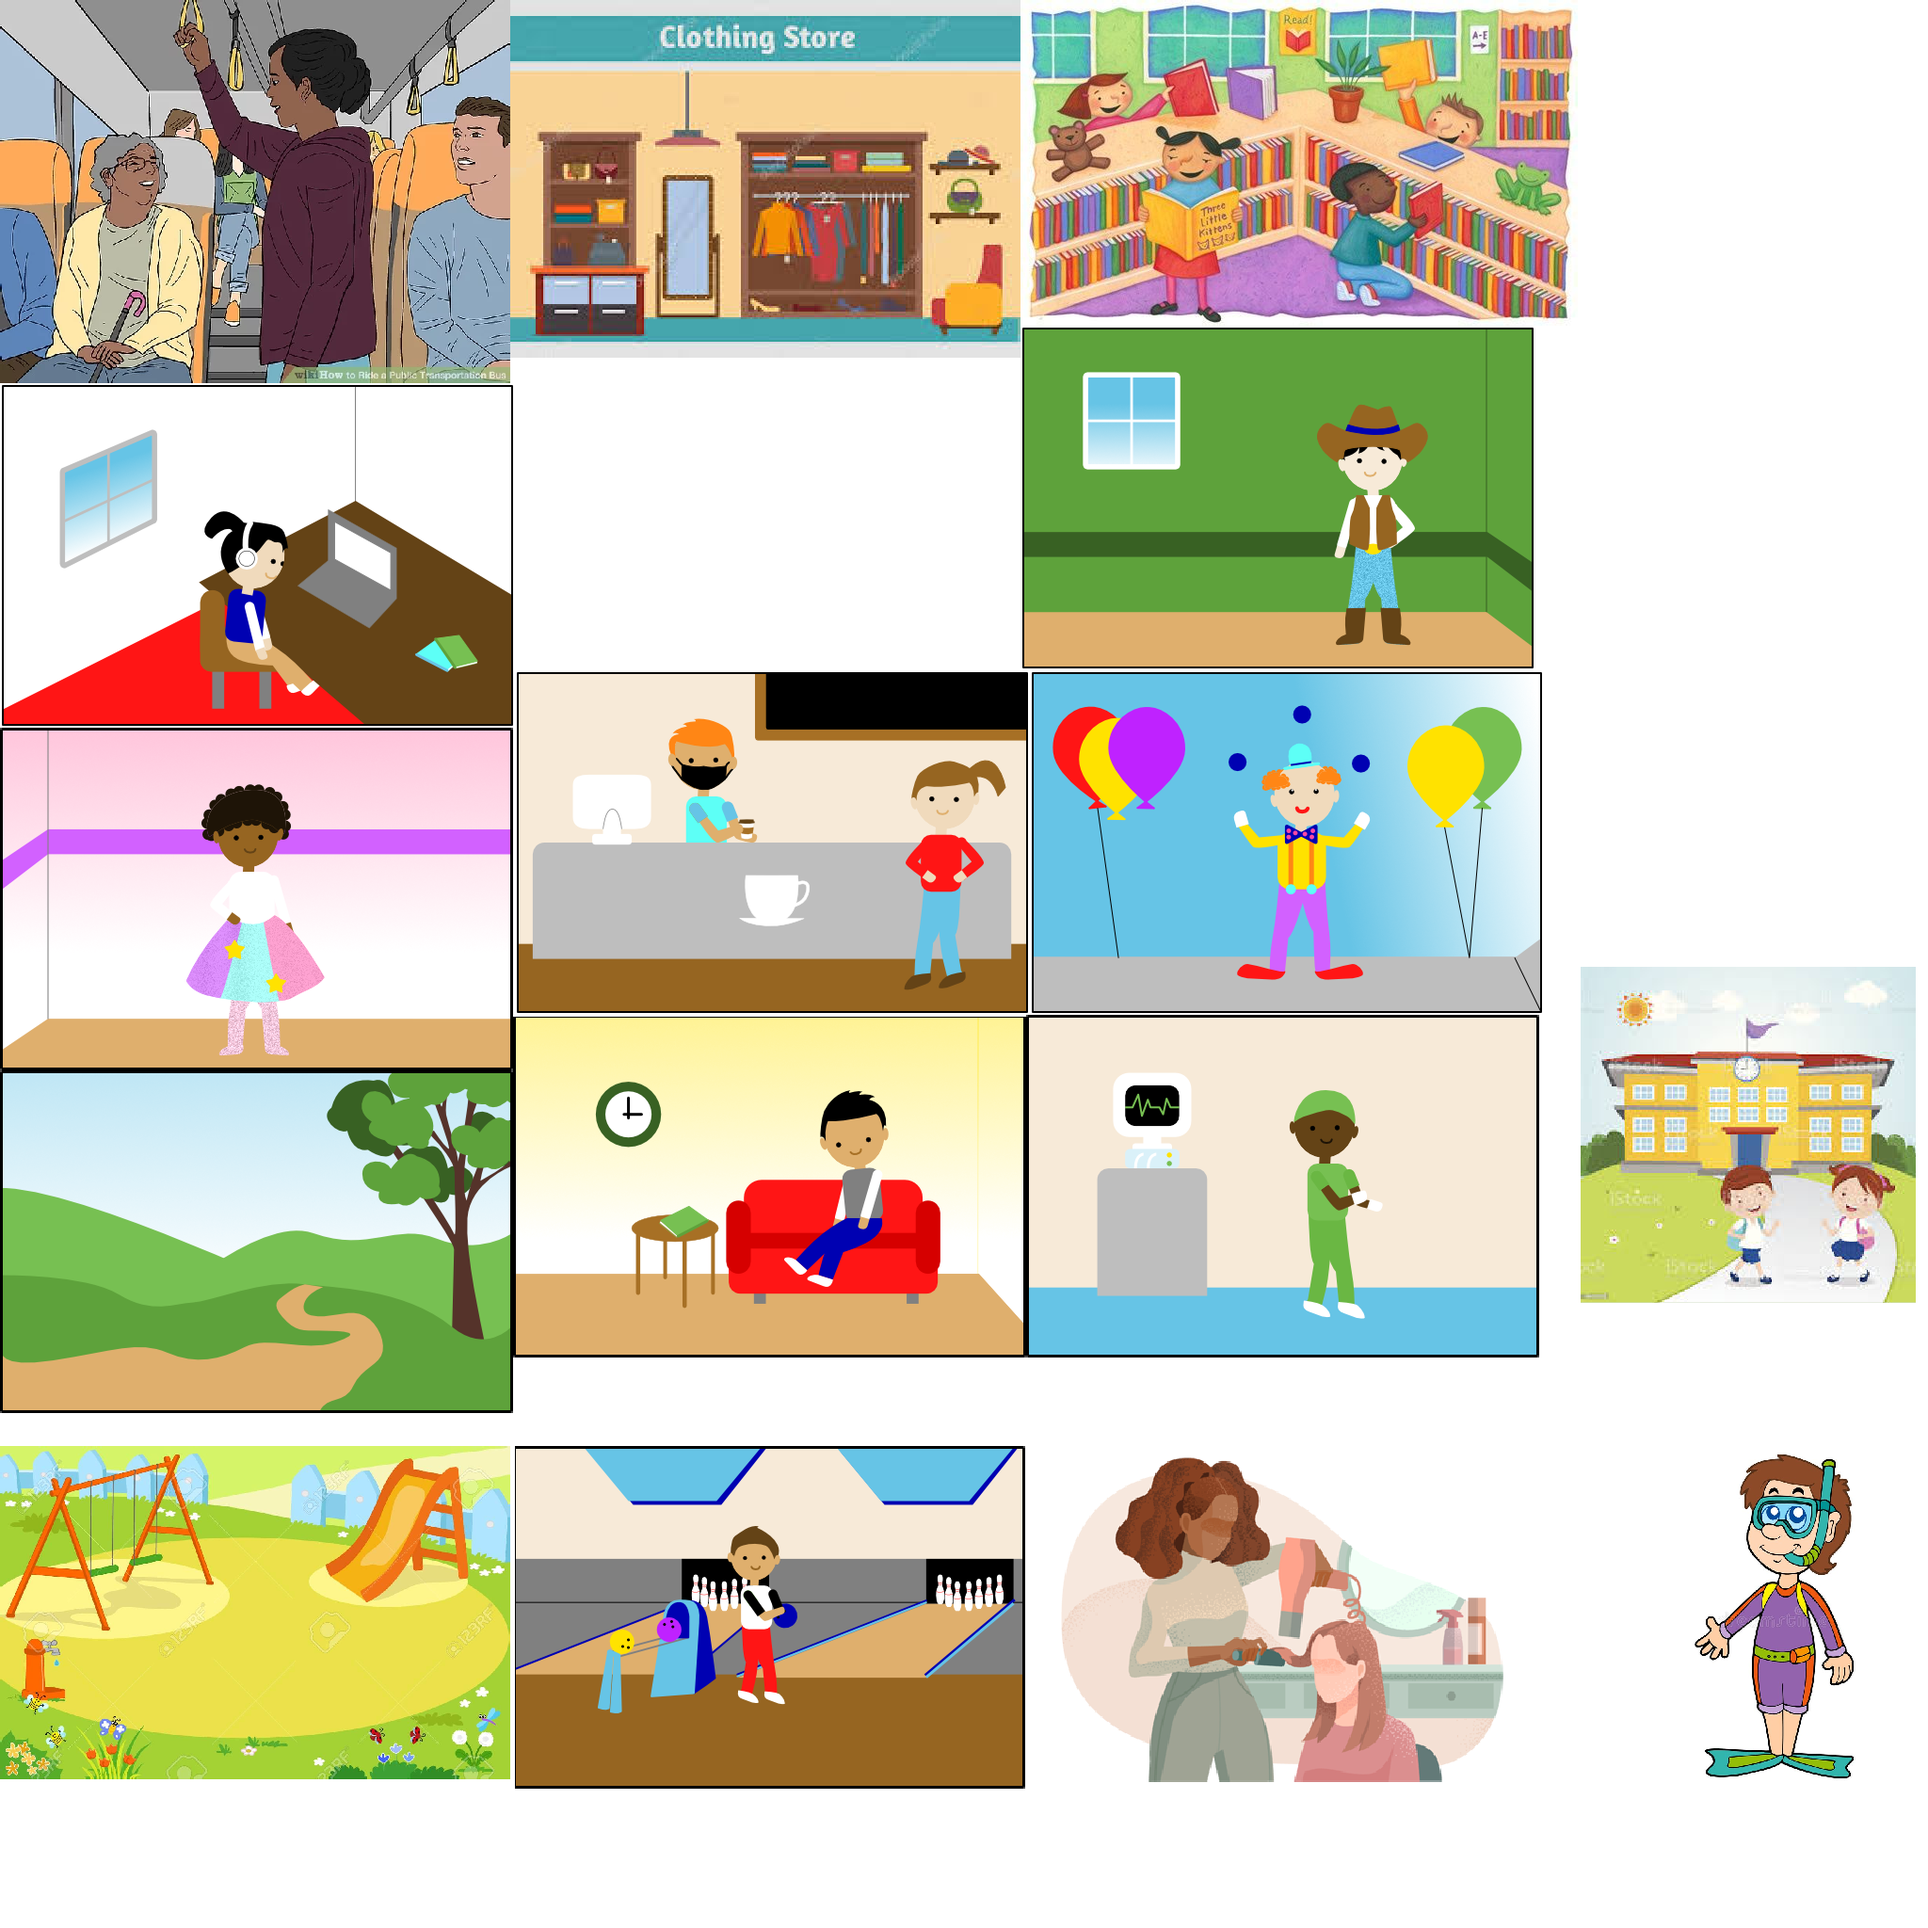
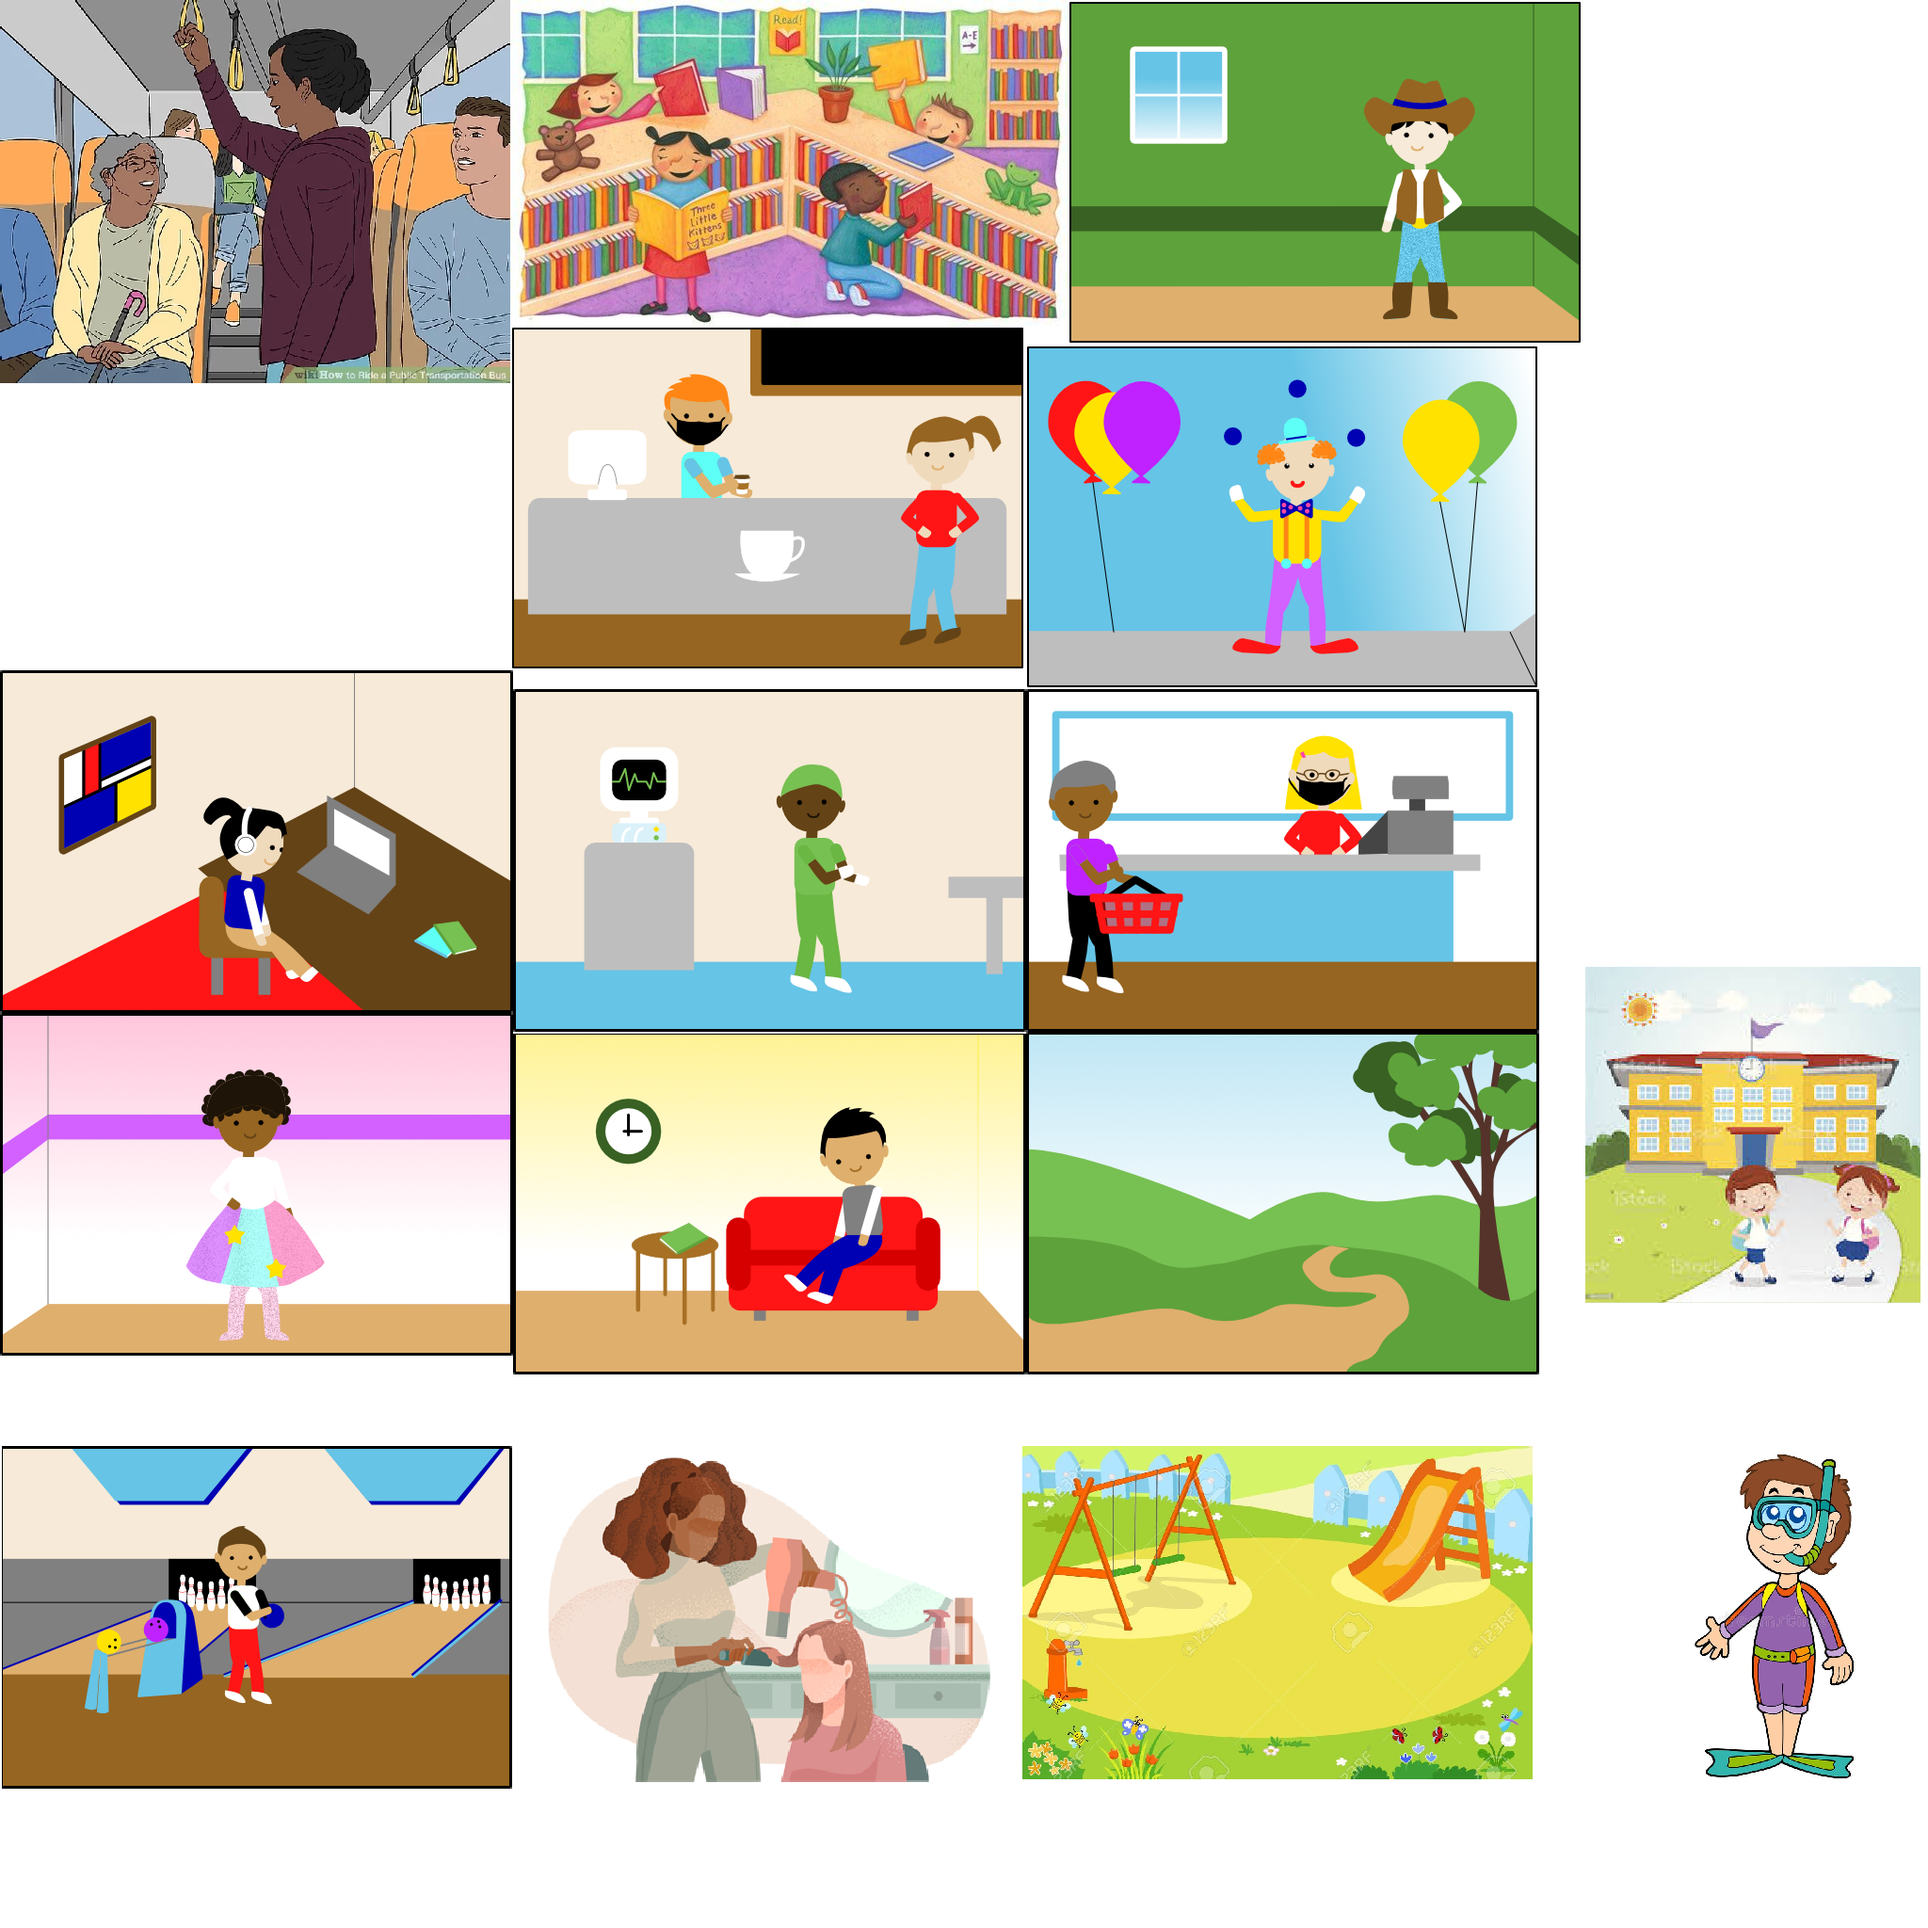
smaller update
some re-tweaked images and sequencing the scenes so they don't repeat on you

diff --git a/scripts/c3runtime.js b/scripts/c3runtime.js
@@ -2916,10 +2916,17 @@ true,result:this.OTHER})}if(C3.IsFiniteNumber(property))property=C3.Behaviors.Tw
 		C3.Plugins.Text,
 		C3.Plugins.Button,
 		C3.Plugins.System.Cnds.OnLayoutStart,
-		C3.Plugins.Sprite.Acts.SetAnimFrame,
-		C3.Plugins.System.Exps.random,
-		C3.Plugins.Sprite.Exps.AnimationFrameCount,
 		C3.Plugins.Text.Acts.SetText,
+		C3.Plugins.Arr.Acts.SetSize,
+		C3.Plugins.System.Cnds.Repeat,
+		C3.Plugins.Sprite.Exps.AnimationFrameCount,
+		C3.Plugins.Arr.Acts.Push,
+		C3.Plugins.System.Exps.loopindex,
+		C3.Plugins.System.Acts.SetVar,
+		C3.Plugins.System.Exps.random,
+		C3.Plugins.Arr.Exps.Width,
+		C3.Plugins.Arr.Exps.At,
+		C3.Plugins.Arr.Acts.Delete,
 		C3.Plugins.System.Cnds.CompareBoolVar,
 		C3.Plugins.System.Cnds.Else,
 		C3.Plugins.AJAX.Acts.RequestFile,
@@ -2934,20 +2941,19 @@ true,result:this.OTHER})}if(C3.IsFiniteNumber(property))property=C3.Behaviors.Tw
 		C3.Plugins.System.Cnds.CompareVar,
 		C3.Plugins.Sprite.Acts.MoveToTop,
 		C3.Behaviors.Tween.Acts.TweenTwoProperties,
-		C3.Plugins.Arr.Exps.At,
 		C3.Behaviors.Tween.Acts.TweenOneProperty,
 		C3.Behaviors.Tween.Cnds.OnTweensFinished,
 		C3.Plugins.System.Acts.Wait,
 		C3.Plugins.Sprite.Acts.SetPos,
 		C3.Plugins.System.Cnds.ForEach,
 		C3.Plugins.Sprite.Acts.SetOpacity,
-		C3.Plugins.Arr.Acts.SetSize,
 		C3.Plugins.Arr.Acts.Clear,
 		C3.Plugins.Arr.Acts.SetX,
 		C3.Plugins.Sprite.Exps.AnimationFrame,
 		C3.Plugins.System.Cnds.PickByComparison,
-		C3.Plugins.System.Acts.SetVar,
 		C3.Plugins.System.Exps.choose,
+		C3.Plugins.Sprite.Acts.SetAnimFrame,
+		C3.Plugins.System.Acts.AddVar,
 		C3.Plugins.Button.Cnds.OnClicked,
 		C3.Plugins.System.Acts.GoToLayout
 		];
@@ -2981,10 +2987,13 @@ true,result:this.OTHER})}if(C3.IsFiniteNumber(property))property=C3.Behaviors.Tw
 		{response_text: 0},
 		{start_text: 0},
 		{Play: 0},
+		{layoutsOrdered: 0},
+		{layoutRandomized: 0},
 		{wrong2: 0},
 		{wrong1: 0},
 		{correctAnswer: 0},
-		{Loaded: 0}
+		{Loaded: 0},
+		{layoutCounter: 0}
 	];
 }
 
@@ -3086,17 +3095,32 @@ true,result:this.OTHER})}if(C3.IsFiniteNumber(property))property=C3.Behaviors.Tw
 	}
 
 	self.C3_ExpressionFuncs = [
+		() => "",
+		() => 0,
+		() => 1,
+		p => {
+			const n0 = p._GetNode(0);
+			return () => n0.ExpObject();
+		},
+		p => {
+			const f0 = p._GetNode(0).GetBoundMethod();
+			return () => f0();
+		},
 		p => {
 			const f0 = p._GetNode(0).GetBoundMethod();
 			const n1 = p._GetNode(1);
 			return () => f0(0, n1.ExpObject());
 		},
-		() => "",
-		() => "masklocations",
 		p => {
-			const f0 = p._GetNode(0).GetBoundMethod();
-			return () => f0();
+			const n0 = p._GetNode(0);
+			const v1 = p._GetNode(1).GetVar();
+			return () => n0.ExpObject(v1.GetValue());
 		},
+		p => {
+			const v0 = p._GetNode(0).GetVar();
+			return () => v0.GetValue();
+		},
+		() => "masklocations",
 		() => "masknames",
 		() => "maskchoices",
 		() => "press",
@@ -3117,9 +3141,7 @@ true,result:this.OTHER})}if(C3.IsFiniteNumber(property))property=C3.Behaviors.Tw
 			const n1 = p._GetNode(1);
 			return () => n0.ExpObject(1, n1.ExpInstVar());
 		},
-		() => 1,
 		() => "mask-fade-out",
-		() => 0,
 		() => 0.5,
 		() => "Not the best choice!",
 		() => 5,
@@ -3127,10 +3149,6 @@ true,result:this.OTHER})}if(C3.IsFiniteNumber(property))property=C3.Behaviors.Tw
 		() => 100,
 		() => "fadeout",
 		() => 3,
-		p => {
-			const v0 = p._GetNode(0).GetVar();
-			return () => v0.GetValue();
-		},
 		p => {
 			const n0 = p._GetNode(0);
 			const n1 = p._GetNode(1);
